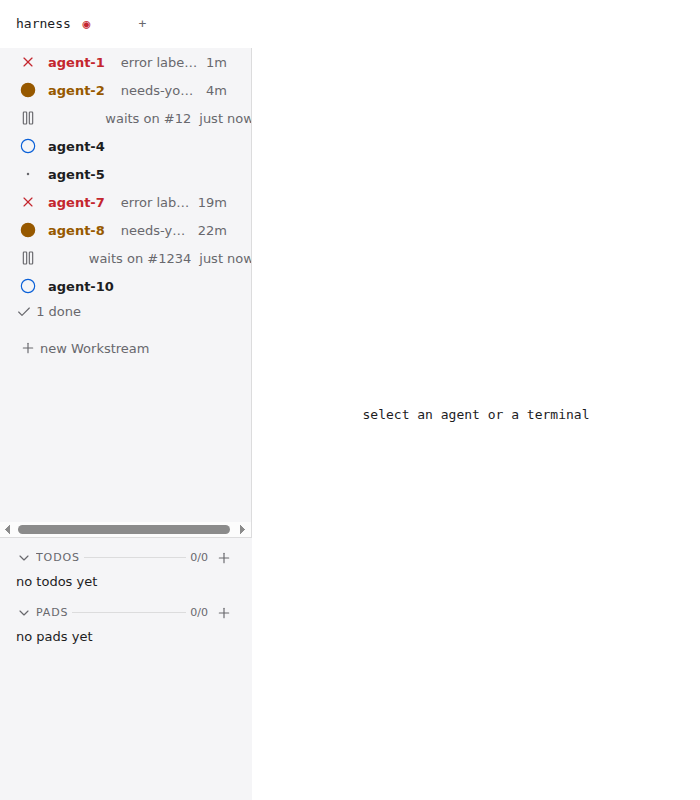
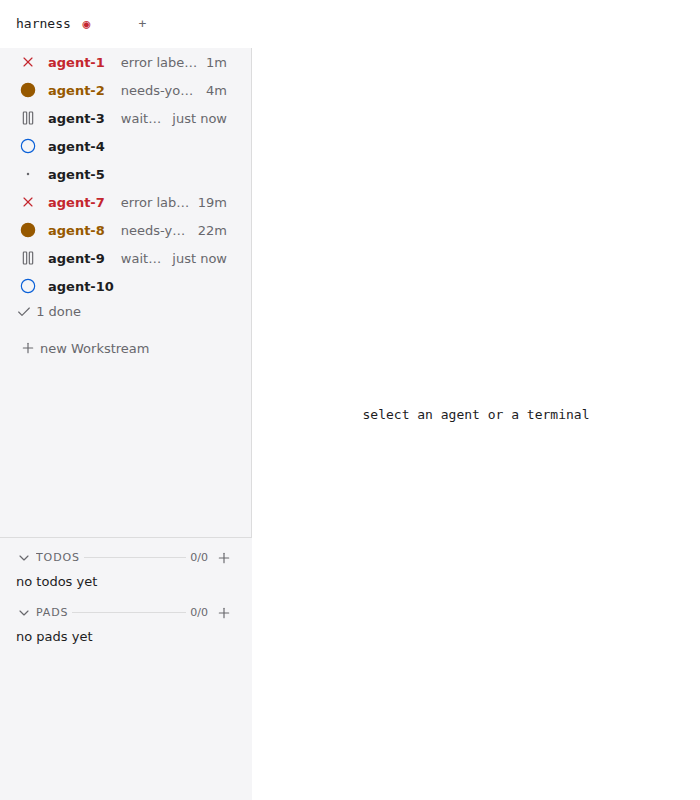
U356: drop the blocked row's width floor; the name and a whole age stay, captures re-taken (Refs #915)
Author-Agent: builder-38124374559

Changed region(s): [[0.06, 0.3125, 0.36, 0.3438], [0.06, 0.125, 0.36, 0.1562], [0.03, 0.6562, 0.33, 0.6875]]

diff --git a/apps/desktop/src/rail/u7_pinned_age.test.tsx b/apps/desktop/src/rail/u7_pinned_age.test.tsx
@@ -49,21 +49,3 @@ describe("u7 the elapsed time is pinned at the row's right edge", () => {
     expect([age.flexShrink, age.whiteSpace]).toEqual(["0", "nowrap"]);
   });
 });
-
-describe("u356 a blocked row keeps its label readable", () => {
-  it("u356_an_agent_live_line_and_its_label_hold_a_floor_the_name_gives_way_to", async () => {
-    const sheet = document.head.appendChild(document.createElement("style"));
-    sheet.textContent = styles;
-    await mountRail([agent("gateway", "blocked", "waits on #12", { status: { kind: "blocked", label: "waits on #12", since: NOW - 4 * MINUTE } })]);
-
-    const live = getComputedStyle(rowOf("gateway").querySelector(".live")!);
-    const label = getComputedStyle(part("live-label")!);
-    const name = getComputedStyle(rowOf("gateway").querySelector(".name")!);
-
-    sheet.remove();
-
-    expect([label.minWidth, live.minWidth, name.minWidth]).toEqual(["calc(13ch + var(--space-4))", "calc(13ch + var(--space-4) + 8px + 9ch)", "0px"]);
-    expect([label.display, label.visibility]).not.toContain("none");
-    expect(part("live-label")?.textContent).toBe("waits on #12");
-  });
-});

diff --git a/apps/desktop/src/rail/styles.css b/apps/desktop/src/rail/styles.css
@@ -150,16 +150,6 @@
   text-align: right;
 }
 
-/* A `blocked` Agent's Live line keeps its label, its age and the gap whole; the name gives way (U356). */
-.rail-row:not([aria-expanded])[data-kind="blocked"] .line > .live {
-  flex: 1 1 0;
-  min-width: calc(13ch + var(--space-4) + 8px + 9ch);
-}
-
-.rail-row[data-kind="blocked"] .line > .live > .live-label {
-  min-width: calc(13ch + var(--space-4));
-}
-
 /* Shrinks and ellipsizes first, so the age at the row's right edge is always whole (U7). */
 .rail-row .line > .live > .live-label {
   flex: 1 1 0;

diff --git a/artifacts/ux/U356/README.md b/artifacts/ux/U356/README.md
@@ -2,4 +2,4 @@
 
 `u356_two_blocked_agents_read_waits_on_their_own_blocker_collapse_to_blocked_and_the_jump_skips_them` (`apps/desktop/src/testing/u356_blocked_real_daemon.test.tsx`) runs on a real `rupd` with `FAKE_CLAUDE_KINDS` of `blocked, working, idle, working, idle` (Workstream 1) and `error, needs-you, blocked, error, needs-you` (Workstream 2). It asserts each row's glyph and word, that the two `blocked` rows wait on two different open `u356 blocker` Todos, the Workstream 1 row reading `blocked` when collapsed, the Workstream 2 row reading `error`, and `⌘J` visiting the four `error` and `needs-you` Agents and no `blocked` one.
 
-`blocked-1280x800.png` and `blocked-700x800.png` are `agent-browser` captures on the `agents-10` harness with `agent-3` set `blocked`, `waits on #12`, and `agent-9` set `blocked`, `waits on #1234`: both labels and both ages (`just now`) are whole (neither `scrollWidth` exceeds its `clientWidth`) and the name gives way entirely, to 0 px beside the 219 px row's label and age. The `.checks.json` files are `window.__checks()` on these captures: D1 to D14 pass at both sizes. Not captured: the real-Daemon run's screenshots, and two Workstreams (`agents-10` holds one), so the collapsed-Workstream row is not shown.
+`blocked-1280x800.png` and `blocked-700x800.png` are `agent-browser` captures on the `agents-10` harness with `agent-3` set `blocked`, `waits on #12`, and `agent-9` set `blocked`, `waits on #1234`: each row keeps its glyph, its name and its age (`just now`) whole, and the `waits on #…` label ellipsizes first as every Live label does (U7), so at 700 by 800 it reads `wait…`; no row or Rail overflows horizontally. The `.checks.json` files are `window.__checks()` on these captures: D1 to D14 pass at both sizes. Not captured: the real-Daemon run's screenshots, and two Workstreams (`agents-10` holds one), so the collapsed-Workstream row is not shown.
